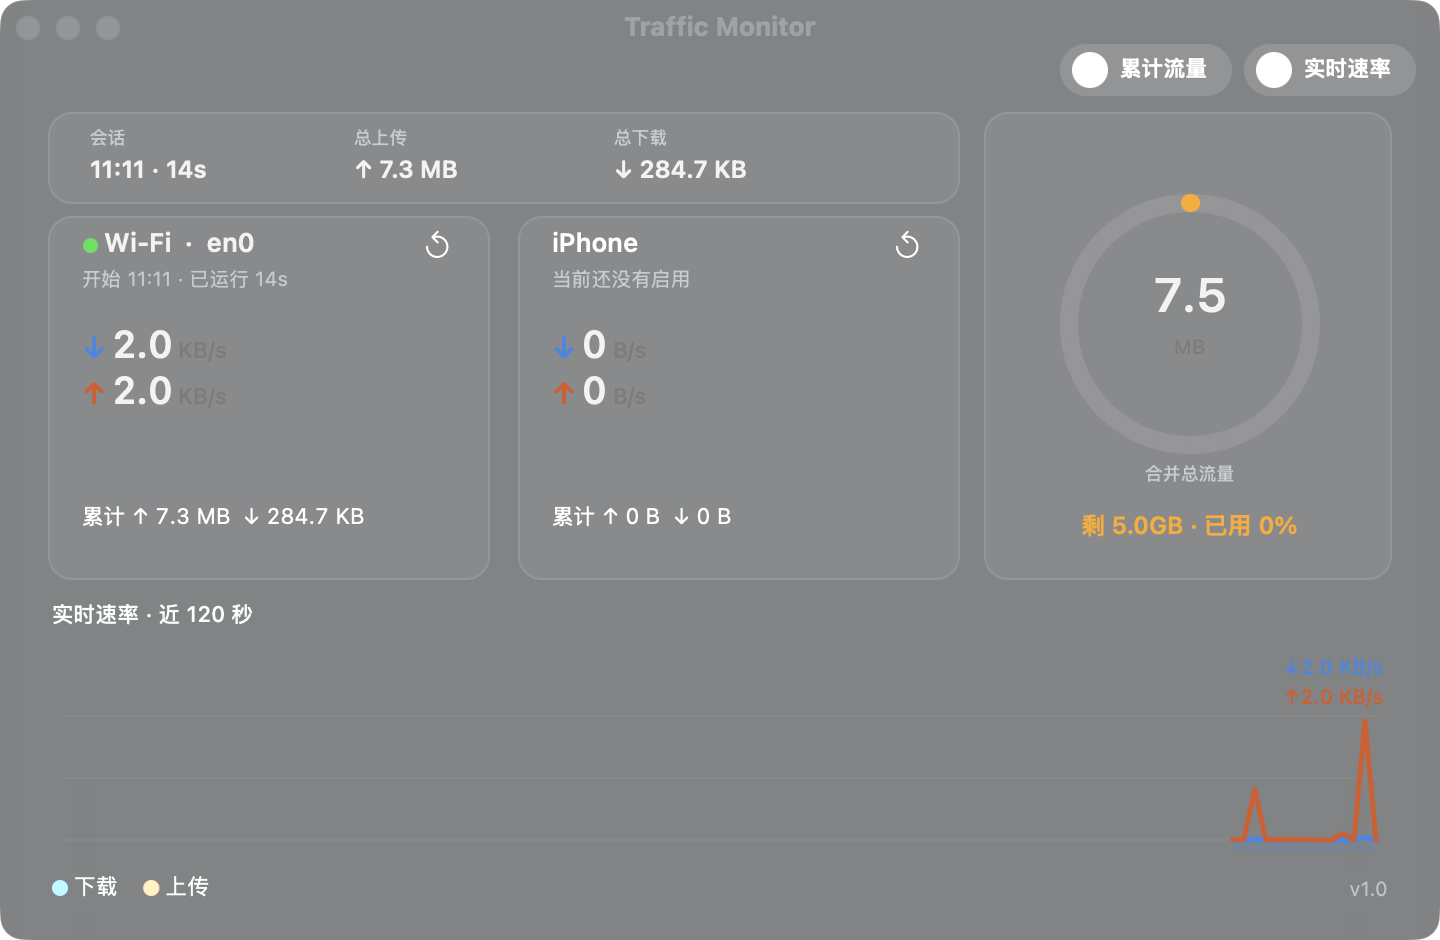
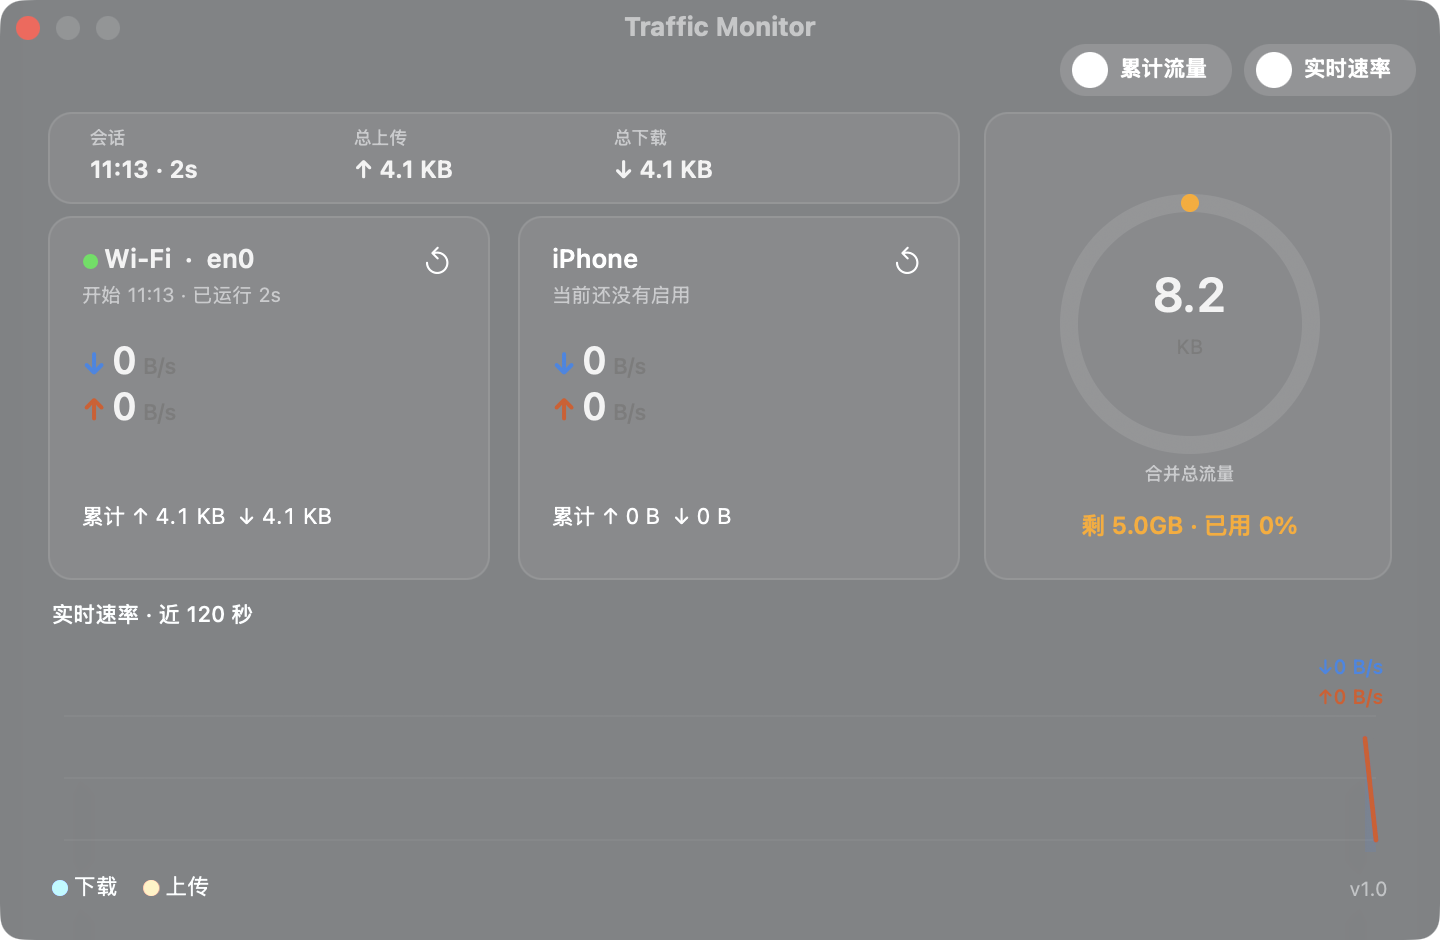
style: 模块卡片上半组下移，标题行留白与内边距协调
标题距顶 6pt 过挤，下移至 14pt（与左右内边距一致）；开始信息、
重置、速率块同步下移，累计行位置不变

diff --git a/Sources/TrafficMonitor/HomePageController.swift b/Sources/TrafficMonitor/HomePageController.swift
@@ -158,22 +158,22 @@ final class HomePageController {
             updateBaseViews.append(card)
 
             let title = makeLabel(size: 13, color: .labelColor, weight: .semibold)
-            title.frame = NSRect(x: 14, y: 158, width: 150, height: 18)
+            title.frame = NSRect(x: 14, y: 150, width: 150, height: 18)
             let meta = makeLabel(size: 10, color: .tertiaryLabelColor, weight: .regular)
-            meta.frame = NSRect(x: 14, y: 142, width: 193, height: 14)
+            meta.frame = NSRect(x: 14, y: 134, width: 193, height: 14)
             if let resetIcon = NSImage(systemSymbolName: "arrow.counterclockwise",
                                        accessibilityDescription: "重置计量") {
                 let reset = NSButton(image: resetIcon, target: self, action: #selector(resetCategory(_:)))
                 reset.isBordered = false
                 reset.contentTintColor = .secondaryLabelColor
                 // 显式定框：默认按钮偏高会顶出卡片上边缘
-                reset.frame = NSRect(x: 181, y: 156, width: 26, height: 22)
+                reset.frame = NSRect(x: 181, y: 148, width: 26, height: 22)
                 reset.toolTip = "重置计量"
                 reset.identifier = NSUserInterfaceItemIdentifier(category == .wifi ? "wifi" : "iphone")
                 card.contentView?.addSubview(reset)
             }
             let rate = makeLabel(size: 12, color: .labelColor, weight: .regular)
-            rate.frame = NSRect(x: 14, y: 66, width: 193, height: 62)
+            rate.frame = NSRect(x: 14, y: 58, width: 193, height: 62)
             // 累计单行横排：↑/↓ 同行（窄卡横向利用更合理；最宽量级也在可用宽度内）
             let total = makeLabel(size: 11, color: .secondaryLabelColor, weight: .regular)
             total.font = .monospacedDigitSystemFont(ofSize: 11, weight: .regular)
